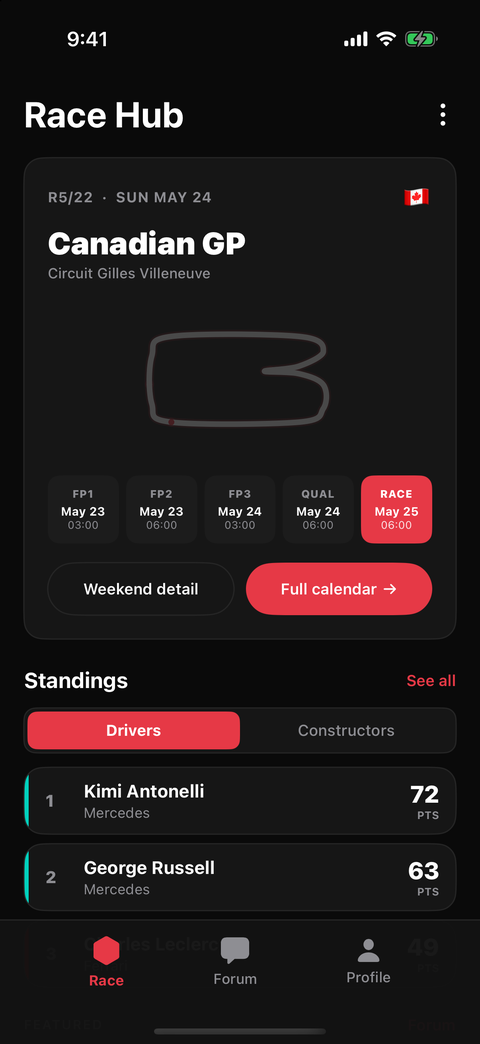
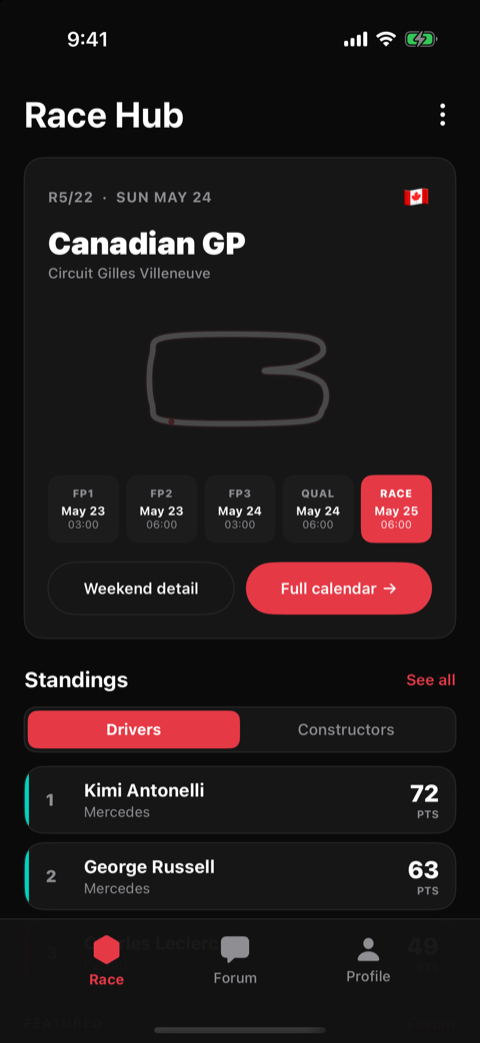
Update RaceHub project for shared ViewModels and new screenshots
- Screenshots re-synced from the RaceHub repo's master (18 in total)
- Describe the shared MVI ViewModels, KMP-NativeCoroutines bridging,
  unified DataResult type and 198 tests; remove claims RaceHub PR #9
  made outdated
- Refresh the RaceHub card text, architecture and chip count

diff --git a/js/projects.js b/js/projects.js
@@ -284,57 +284,75 @@ const PROJECTS = {
   racehub: {
     title: 'RaceHub',
     kicker: 'Personal project',
-    summary: 'A Formula 1 companion app for Android and iOS: the race calendar, driver and constructor standings, a circuit guide for every Grand Prix, and a community forum. Business logic, networking, storage and sessions live in one shared Kotlin Multiplatform module, with a native UI on each platform.',
+    summary: 'A Formula 1 companion app for Android and iOS: the race calendar, driver and constructor standings, a circuit guide for every Grand Prix, and a community forum. Everything except the views is shared in one Kotlin Multiplatform module, including the MVI ViewModels. Jetpack Compose and SwiftUI just render them.',
     meta: [
       ['Type', 'Personal, open source'],
       ['Started', 'May 2026'],
       ['Platforms', 'Android 7.0+ · iOS 18.2+'],
-      ['Architecture', 'Clean Architecture · MVI'],
+      ['Architecture', 'Clean Architecture · shared MVI ViewModels · Navigation 3 (Android)'],
     ],
     screenshots: [
-      ['assets/images/projects/racehub/android-race.png', 'Android, light theme: the Race tab with the Canadian GP card, circuit outline, weekend timetable and driver standings'],
-      ['assets/images/projects/racehub/ios-race-dark.png', 'iOS, dark theme: the same Race tab built in SwiftUI, with the next race and driver standings'],
-      ['assets/images/projects/racehub/android-race-detail-dark.png', 'Android race detail: location, circuit, local start time, weather, a circuit map and track facts such as laps, corners and distance'],
-      ['assets/images/projects/racehub/ios-schedule-dark.png', 'iOS full calendar: completed rounds in Australia, China and Japan, each with its date and circuit map'],
+      ['assets/images/projects/racehub/android-race.png', 'Android, light theme: Race tab with the next Grand Prix, weekend schedule and driver standings'],
+      ['assets/images/projects/racehub/android-race-dark.png', 'Android, dark theme: Race tab with the next Grand Prix, weekend schedule and driver standings'],
+      ['assets/images/projects/racehub/ios-race.png', 'iOS, light theme: Race tab with the next Grand Prix and standings'],
+      ['assets/images/projects/racehub/ios-race-dark.png', 'iOS, dark theme: Race tab with the next Grand Prix and standings'],
+      ['assets/images/projects/racehub/android-race-detail-dark.png', 'Android race detail: location, circuit, local start time, weather, a circuit map and track facts'],
+      ['assets/images/projects/racehub/ios-race-detail-dark.png', 'iOS race detail showing the circuit, local start time, weather and track facts'],
+      ['assets/images/projects/racehub/android-schedule-dark.png', 'Android full calendar with race dates and circuit maps'],
+      ['assets/images/projects/racehub/ios-schedule-dark.png', 'iOS full calendar with race dates and circuit maps'],
       ['assets/images/projects/racehub/android-forum.png', 'Android forum feed with Latest, Most popular and Most commented filters, thread cards with likes and comments, and a button to start a thread'],
+      ['assets/images/projects/racehub/ios-forum.png', 'iOS forum feed with thread cards and community activity'],
+      ['assets/images/projects/racehub/android-thread-detail-dark.png', 'Android thread detail showing a post, replies and thread actions'],
       ['assets/images/projects/racehub/ios-thread-detail-dark.png', 'iOS thread detail showing the full post and an inline reply box'],
-      ['assets/images/projects/racehub/android-profile.png', 'Android profile with avatar initials, stats, account details and the System, Dark or Light appearance setting'],
+      ['assets/images/projects/racehub/android-profile.png', 'Android profile with account details, stats and appearance settings'],
+      ['assets/images/projects/racehub/android-profile-dark.png', 'Android profile in dark theme with account details and appearance settings'],
+      ['assets/images/projects/racehub/ios-profile.png', 'iOS profile with account details, stats and appearance settings'],
+      ['assets/images/projects/racehub/ios-profile-dark.png', 'iOS profile in dark theme with account details and appearance settings'],
+      ['assets/images/projects/racehub/ios-login.png', 'iOS sign-in screen'],
       ['assets/images/projects/racehub/ios-signup.png', 'iOS sign-up screen with username, email, password and country fields'],
     ],
     sections: [
       ['Features', [
-        'Sign-in and sign-up, with email verification by one-time code, a forgot-password flow and server-side sign-out. The session token is encrypted at rest: AES-256 EncryptedSharedPreferences on Android, the Keychain on iOS.',
+        'Sign-in and sign-up, with email verification by one-time code and a forgot-password flow, on both platforms. The session token is encrypted at rest: AES-256 EncryptedSharedPreferences on Android, the Keychain on iOS.',
+        'Sign-out always clears the session on the device and revokes the token on the server when it can, so it works offline too.',
         'Next-race card with the round, date, country flag, circuit outline and the full weekend timetable (FP1, FP2, FP3, Qualifying, Race).',
         'Driver and constructor standings with team colours, plus a full season calendar with each race’s status, date, weather and circuit map.',
         'Race detail with the local start time, weather, a large circuit map and track facts: laps, corners, distance and lap record.',
         'Community forum: Latest, Most popular and Most commented feeds, new threads by category, and thread detail with likes and inline replies.',
         'Profile with stats, recent and saved posts, and a System, Dark or Light theme that’s remembered across launches.',
-        'Offline cache: races, standings and trending threads are saved locally, so the app shows the last data it had when the network is down.',
+        'Offline cache: races, standings and trending threads are stored locally. When the network is down, the app shows the last data it had.',
       ]],
       ['How it’s built', [
-        'One shared Kotlin Multiplatform module holds the domain layer (models, repository interfaces, use cases) and the data layer (Ktor GraphQL client, DTOs and mappers, SQLDelight cache, session storage).',
-        'A native UI on each platform: Jetpack Compose with Material 3 on Android, SwiftUI on iOS through the shared XCFramework. Both use MVI with the same State, Intent and Effect contract for every screen.',
-        'Repositories are the error boundary: network and parsing failures become domain results, so the UI never sees raw exceptions.',
+        'One shared Kotlin Multiplatform module holds every layer except the views. The presentation layer has one ViewModel per screen (ten in total), with no ViewModels left in the Android or iOS apps. The domain layer has models, repository interfaces and use cases, and the data layer has a Ktor GraphQL client, a SQLDelight cache and session storage.',
+        'MVI with one contract for every screen: an immutable State, sealed Intents, one-off Effects on a separate flow, and internal Mutations applied by a pure Reducer, the only place state changes.',
+        'Jetpack Compose (Material 3) on Android and SwiftUI on iOS render the same Kotlin ViewModels.',
+        'iOS bridging with KMP-NativeCoroutines. It exposes each ViewModel’s StateFlow and effects to Swift, and a SharedViewModelHost republishes the state for SwiftUI. When a SwiftUI screen goes away, the host clears the Kotlin ViewModel, like Android does.',
+        'Android uses Navigation 3, with separate signed-out and signed-in graphs. The race and forum ViewModels only exist while signed in, and are thrown away on sign-out.',
+        'One result type, DataResult<T, E>: race, forum and profile fail with DataError, and auth with AuthFailure. Each platform maps errors to localised text, shown as a snackbar on Android or an alert on iOS.',
+        'Koin for dependency injection. Repositories, use cases and the data layer are internal to the shared module, so Swift only sees the ViewModels.',
         'expect/actual for platform code: OkHttp or Darwin for HTTP, the Android or native SQLite driver, EncryptedSharedPreferences or the Keychain, and DI start-up.',
-        'Koin for dependency injection, with dependency providers that expose the shared use cases to Swift.',
         'Localised strings on both platforms (strings.xml and Localizable.strings).',
       ]],
       ['Engineering details', [
-        'Offline-first caching with two refresh strategies. The calendar waits for a network refresh (capped at 5 seconds), then falls back to cached rows. Standings and trending threads return cached rows straight away and refresh in the background on a long-lived SupervisorJob scope, so one failed sync never cancels the others. With an empty cache, the app waits for the first sync.',
-        'Secure sessions. The auth token is encrypted at rest with EncryptedSharedPreferences (AES-256-GCM values, AES-256-SIV keys) on Android. On iOS it’s kept in the Keychain as “after first unlock, this device only”. The signed-in user is exposed as a StateFlow and restored at launch.',
-        'Safe network logging: Ktor logs only the method, URL, status and timing, and redacts the Authorization header, so passwords, one-time codes and bearer tokens never reach the logs.',
-        'Typed results at the auth boundary. Login, sign-up, one-time-code verification and password reset return AuthResult, EmailVerificationResult or PasswordResetResult instead of throwing.',
-        'Swift interop without Koin in Swift. Dependency providers hand use cases and repositories to the SwiftUI view models, which call the shared suspend functions with async/await.',
+        'Offline-first caching. The calendar waits for a network refresh (capped at 5 seconds), then falls back to the cache. Standings and trending threads come from one dashboard request: a sync that’s already running is joined, and a recent successful one is reused, so the Race tab sends one request instead of three. If a refresh fails, the cached data is still served.',
+        'Request timeouts on the HTTP client, so a stalled server fails with a network error instead of loading forever.',
+        'Cancellation-safe error handling: failures become typed errors at the repository boundary, while coroutine cancellation is always rethrown, so leaving a screen still cancels its requests.',
+        'Secure sessions. The auth token is encrypted at rest with EncryptedSharedPreferences (AES-256-GCM values, AES-256-SIV keys) on Android. On iOS it’s kept in the Keychain as “after first unlock, this device only”.',
+        'Android backups exclude the encrypted session, because the Keystore key it needs is never backed up and a restored copy couldn’t be decrypted. Theme preferences are still backed up.',
+        'Network logging in debug builds only. Headers and bodies are never logged, so passwords, one-time codes and bearer tokens never reach the logs. Release builds log nothing.',
+        'The API base URL is set per build type: Gradle properties compiled into BuildConfig on Android, and an .xcconfig on iOS.',
         'Testable threading: repositories take an injected CoroutineDispatcher (the platform IO dispatcher by default), and dispatchers and logging are expect/actual.',
-        'Compose performance: a stability configuration marks the shared domain models as stable, so screens skip needless recompositions. State is collected with collectAsStateWithLifecycle, and one-off effects go through a Channel.',
+        'Compose performance: a stability configuration marks the shared domain models as stable, so screens skip needless recompositions. State is collected with collectAsStateWithLifecycle.',
+        'The country picker filters ISO region data down to actual countries.',
       ]],
       ['Testing & CI', [
-        'Unit tests for every use case, the DTO mappers and the user session, using fake repositories, so no network or device is needed. They run on the JVM and on the iOS simulator.',
-        'Kover coverage reports focused on the domain logic.',
+        '198 tests: 185 in the shared module and 13 in the Android app. They cover use cases against fake repositories, the Race feature’s reducer and ViewModel, and repositories against a Ktor MockEngine and an in-memory SQLite database. The shared tests run on the JVM and the iOS simulator.',
+        'Compose UI tests for the sign-in flow run under Robolectric, and XCTest covers the iOS error messages and SharedViewModelHost.',
+        'Kover coverage reports focused on the shared logic.',
         'GitHub Actions builds the Android APK and the iOS app on every pull request to develop.',
       ]],
     ],
-    stack: ['Kotlin Multiplatform', 'Jetpack Compose', 'SwiftUI', 'Clean Architecture', 'MVI', 'Ktor', 'GraphQL', 'SQLDelight', 'Koin', 'Coroutines & Flow', 'kotlinx.serialization', 'Material 3', 'EncryptedSharedPreferences', 'Keychain', 'Kover', 'GitHub Actions'],
+    stack: ['Kotlin Multiplatform', 'Jetpack Compose', 'SwiftUI', 'KMP-NativeCoroutines', 'Navigation 3', 'Clean Architecture', 'MVI', 'Ktor', 'GraphQL', 'SQLDelight', 'Koin', 'Coroutines & Flow', 'kotlinx.serialization', 'kotlinx-datetime', 'Material 3', 'EncryptedSharedPreferences', 'Keychain', 'Robolectric', 'Kover', 'GitHub Actions'],
     links: [
       ['View on GitHub', 'https://github.com/sougandhmp/RaceHub'],
     ],

diff --git a/index.html b/index.html
@@ -254,9 +254,9 @@
         </div>
         <div class="card personal" data-category="android compose kmp">
           <h3><a class="card-link" href="project.html?id=racehub">RaceHub</a></h3>
-          <p>Personal project: a Formula 1 companion app for Android and iOS, with shared Kotlin Multiplatform logic, native Compose and SwiftUI screens, encrypted sessions and an offline cache.</p>
-          <div class="project-card-facts"><div><b>Architecture</b><span>Clean Architecture · MVI · Koin</span></div></div>
-          <ul class="stack"><li>Kotlin Multiplatform</li><li>Jetpack Compose</li><li>SwiftUI</li><li class="more" title="13 more on the project page">+13</li></ul>
+          <p>Personal project: a Formula 1 app for Android and iOS where everything but the views, including the MVI ViewModels, is shared in Kotlin Multiplatform.</p>
+          <div class="project-card-facts"><div><b>Architecture</b><span>Clean Architecture · shared MVI · Navigation 3</span></div></div>
+          <ul class="stack"><li>Kotlin Multiplatform</li><li>Jetpack Compose</li><li>SwiftUI</li><li class="more" title="17 more on the project page">+17</li></ul>
           <div class="links">
             <a class="icon-link" href="https://github.com/sougandhmp/RaceHub" aria-label="RaceHub on GitHub" title="GitHub"><svg viewBox="0 0 24 24" aria-hidden="true"><path d="M12 .297c-6.63 0-12 5.373-12 12 0 5.303 3.438 9.8 8.205 11.385.6.113.82-.258.82-.577 0-.285-.01-1.04-.015-2.04-3.338.724-4.042-1.61-4.042-1.61C4.422 18.07 3.633 17.7 3.633 17.7c-1.087-.744.084-.729.084-.729 1.205.084 1.838 1.236 1.838 1.236 1.07 1.835 2.809 1.305 3.495.998.108-.776.417-1.305.76-1.605-2.665-.3-5.466-1.332-5.466-5.93 0-1.31.465-2.38 1.235-3.22-.135-.303-.54-1.523.105-3.176 0 0 1.005-.322 3.3 1.23.96-.267 1.98-.399 3-.405 1.02.006 2.04.138 3 .405 2.28-1.552 3.285-1.23 3.285-1.23.645 1.653.24 2.873.12 3.176.765.84 1.23 1.91 1.23 3.22 0 4.61-2.805 5.625-5.475 5.92.42.36.81 1.096.81 2.22 0 1.606-.015 2.896-.015 3.286 0 .315.21.69.825.57C20.565 22.092 24 17.592 24 12.297c0-6.627-5.373-12-12-12"/></svg></a>
           </div>

diff --git a/README.md b/README.md
@@ -121,7 +121,7 @@ Don't amend or force-push commits that are already on GitHub. Make a new commit 
 │   │   ├── og-image.png                       1200×630 link-preview card (LinkedIn, X, Slack…)
 │   │   └── projects/
 │   │       ├── flagmaster/                    App screenshots for the FlagMaster page (480px wide)
-│   │       └── racehub/                       Android and iOS screenshots for the RaceHub page (480px wide, from the RaceHub repo's docs/screenshots on develop)
+│   │       └── racehub/                       Android and iOS screenshots for the RaceHub page (480px wide, synced from the RaceHub repo's docs/screenshots on master)
 │   └── resume/
 │       ├── sougandh-manikkoth-paremmal-resume.pdf   Résumé for viewing and downloading
 │       └── resume-page-1.png, resume-page-2.png     The pages as images, for phones without a PDF viewer
